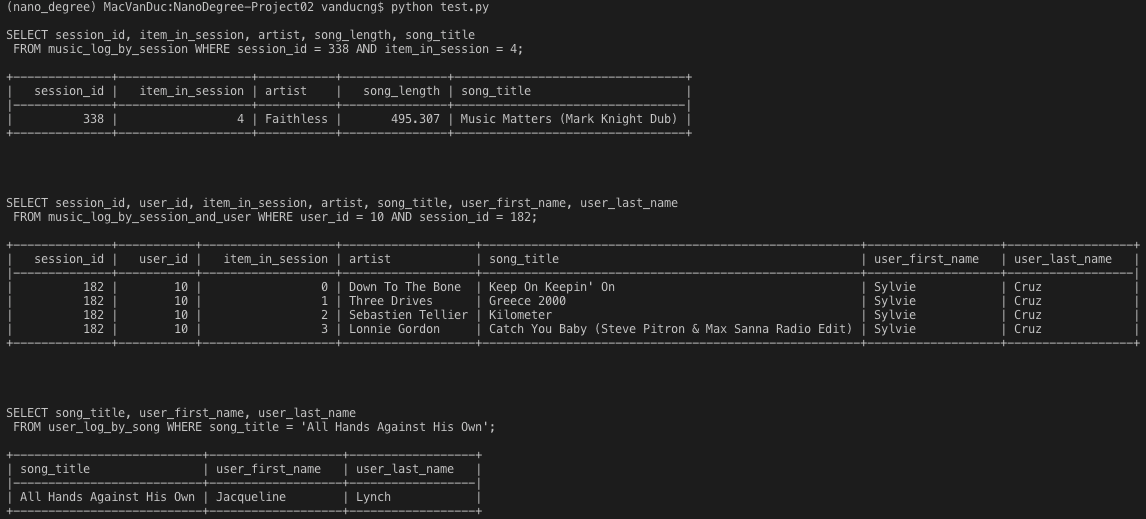
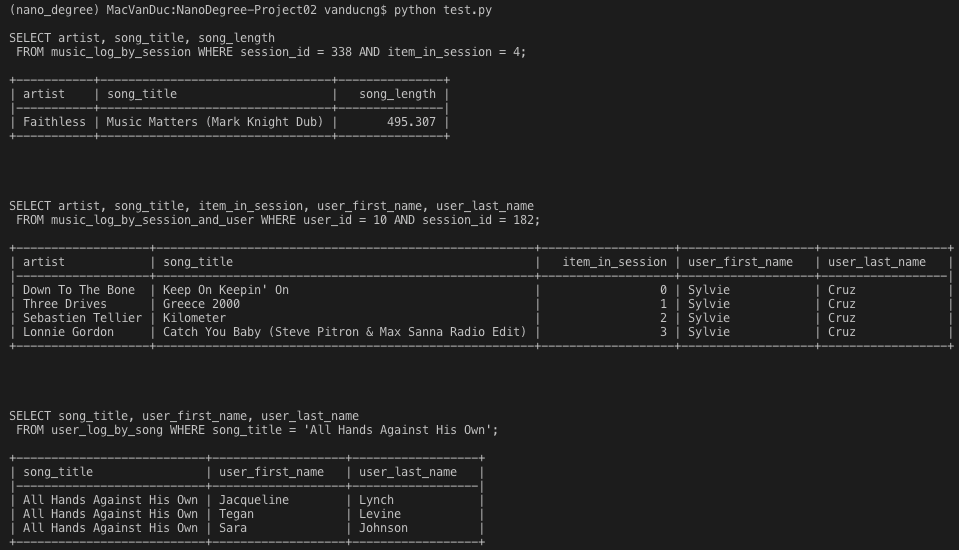
- Revise SELECT query to explicitly select required info by analytics team - Update primary key for 3rd table - Add in description for each query - Remove all remaining Todo mark

diff --git a/sql_queries.py b/sql_queries.py
@@ -18,7 +18,7 @@ CREATE TABLE IF NOT EXISTS music_log_by_session_and_user
 
 user_log_by_song_create = """
 CREATE TABLE IF NOT EXISTS user_log_by_song
- (song_title text, artist text, user_first_name text, user_last_name text, PRIMARY KEY(song_title, artist));
+ (song_title text, user_id int, user_first_name text, user_last_name text, PRIMARY KEY(song_title, user_id));
 """
 
 # INSERT DATA
@@ -33,18 +33,18 @@ INSERT INTO music_log_by_session_and_user(session_id, user_id, item_in_session, 
 """
 
 user_log_by_song_insert = """
-INSERT INTO user_log_by_song(song_title, artist, user_first_name, user_last_name)
+INSERT INTO user_log_by_song(song_title, user_id, user_first_name, user_last_name)
  VALUES(%s, %s, %s, %s)
 """
 
 # SELECT QUERY
 music_log_by_session_select = """
-SELECT session_id, item_in_session, artist, song_length, song_title 
+SELECT artist, song_title, song_length
  FROM music_log_by_session WHERE session_id = 338 AND item_in_session = 4;
  """
 
 music_log_by_session_and_user_select = """
-SELECT session_id, user_id, item_in_session, artist, song_title, user_first_name, user_last_name  
+SELECT artist, song_title, item_in_session, user_first_name, user_last_name  
  FROM music_log_by_session_and_user WHERE user_id = 10 AND session_id = 182;
  """
 

diff --git a/etl.py b/etl.py
@@ -28,7 +28,7 @@ def process_data(session, event_data):
                         (int(line[8]), int(line[10]), int(line[3]), line[0], line[9], line[1], line[4]))
 
         session.execute(insert_table_queries.get("user_log_by_song"),
-                        (line[9], line[0], line[1], line[4]))
+                        (line[9], int(line[10]), line[1], line[4]))
 
 
 def preprocess_data(file_path_list):
